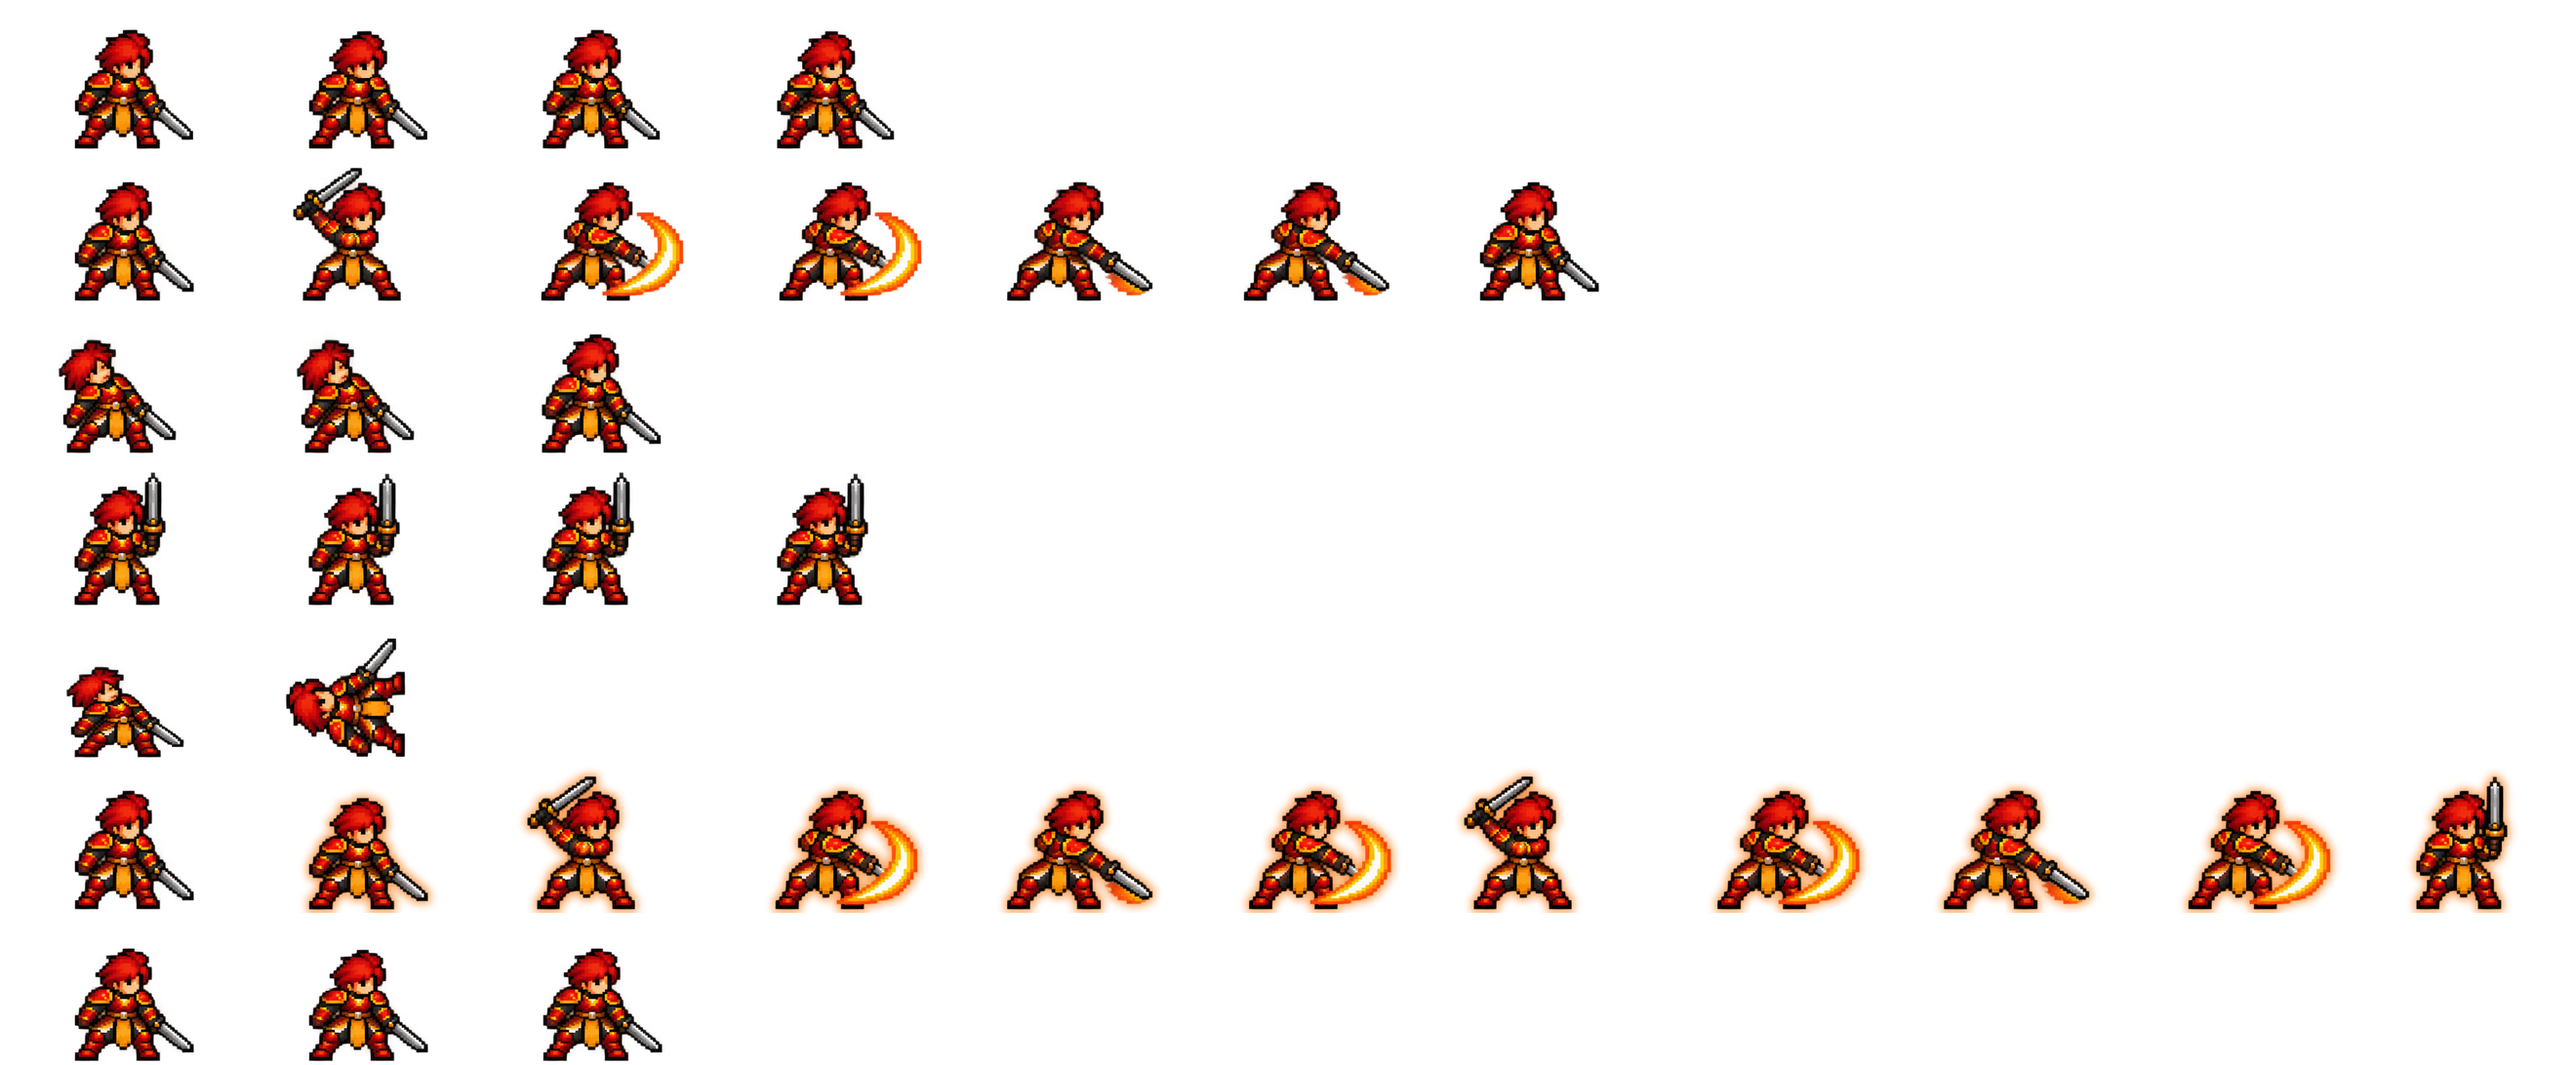
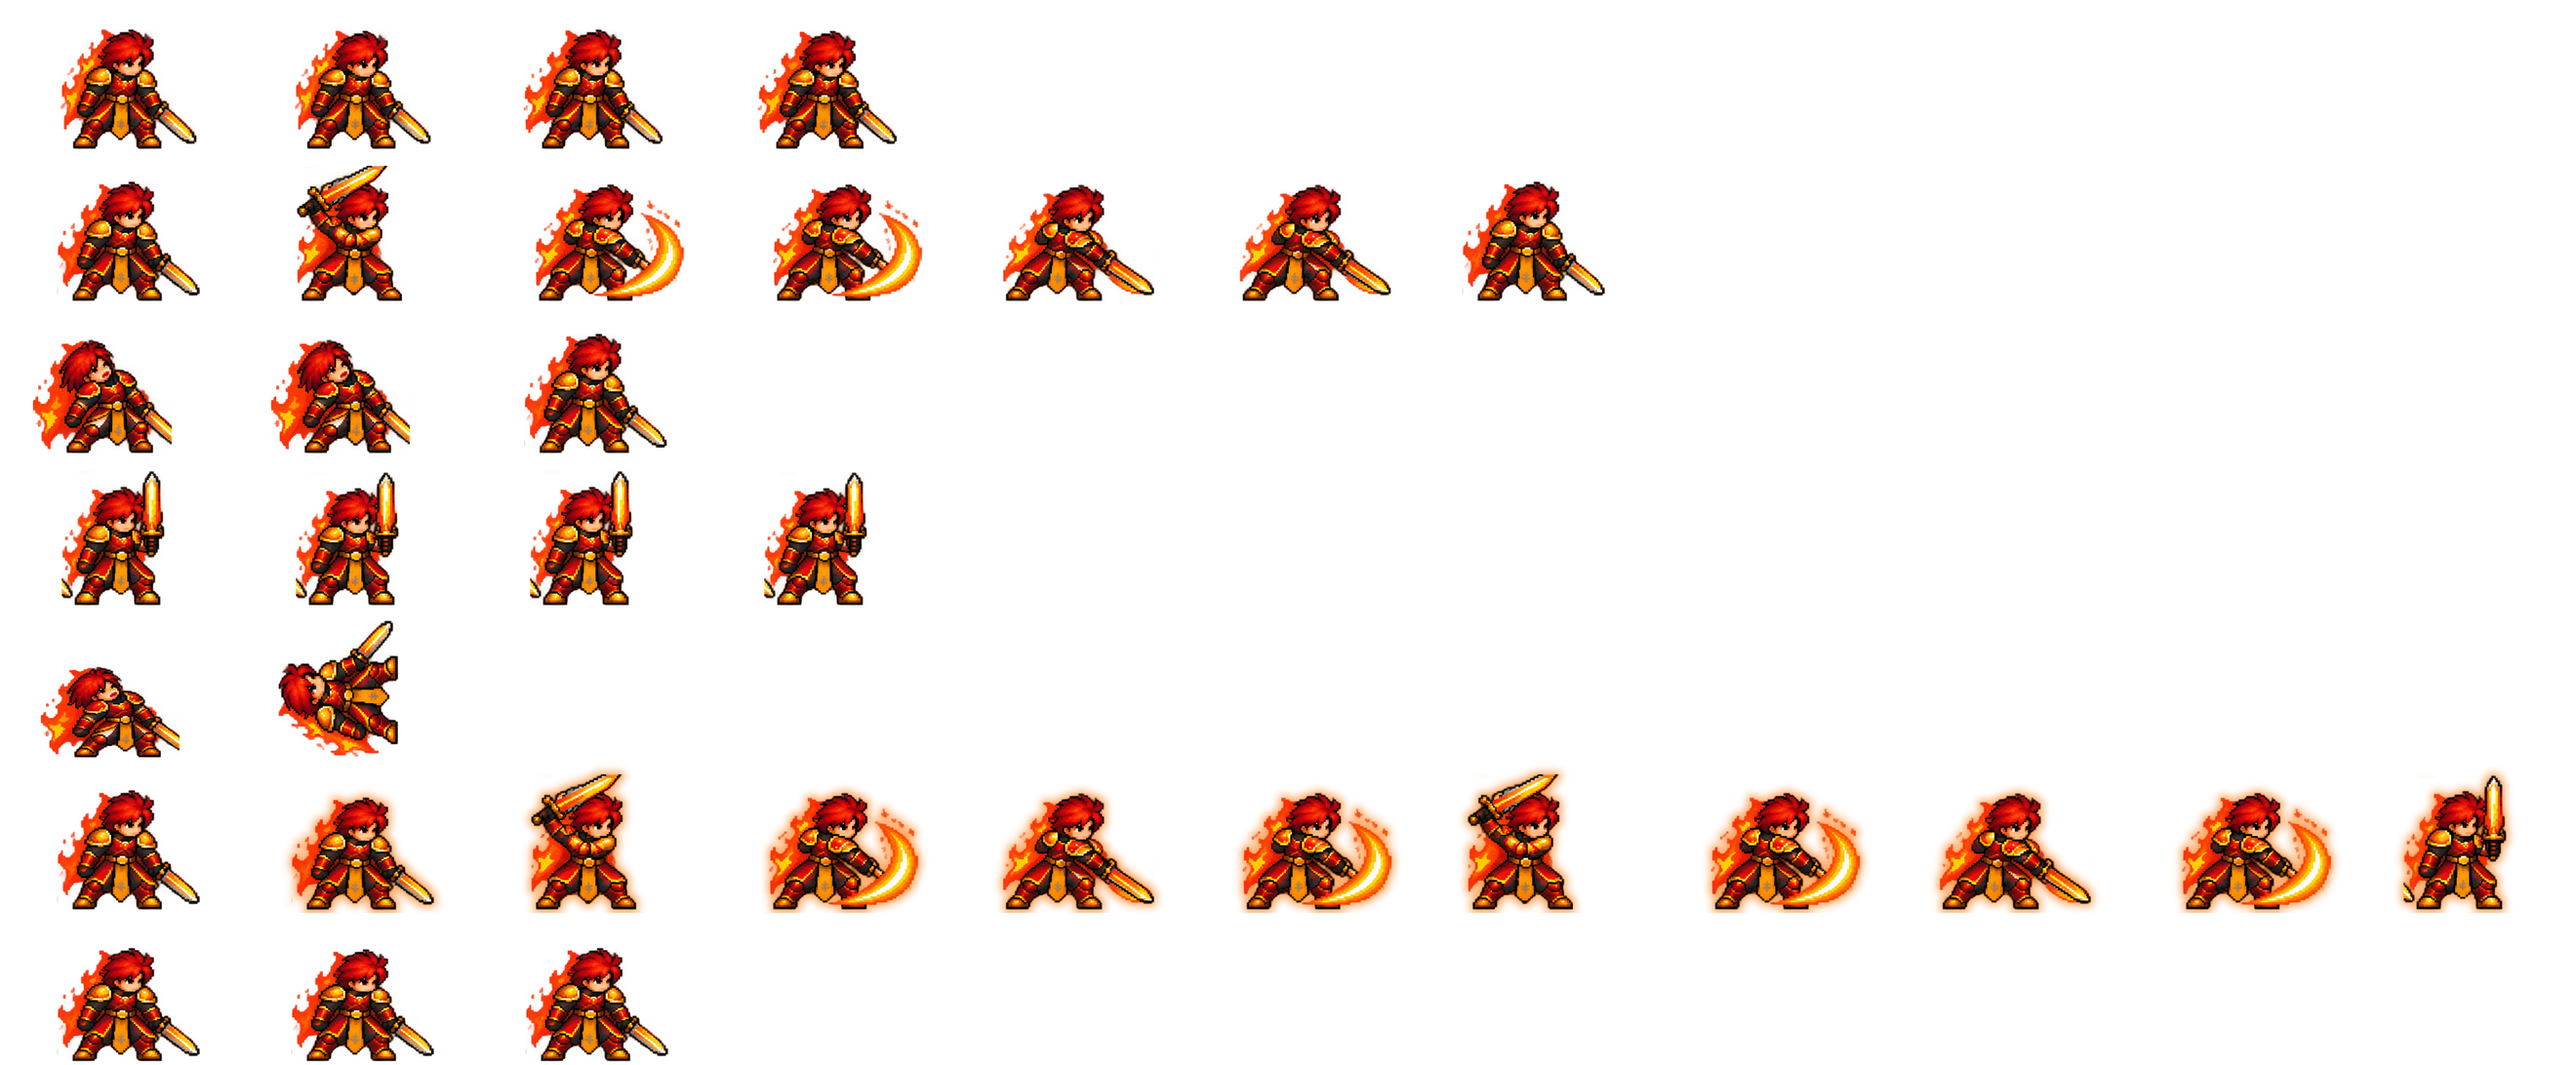
Kael: newest owner sheet (5* fire aura); cut on the emptiest grid lines so auras don't merge poses
Claude-Session: https://claude.ai/code/session_018FD9XXPN18zgpdgkPrG4jT

diff --git a/tools/import_kael.py b/tools/import_kael.py
@@ -32,14 +32,28 @@ def runs(mask, gap):
     return out + [(s, p)]
 
 
+def split(cov, guesses, span):
+    """Cut positions = the emptiest line near each expected gap (auras can touch neighbours)."""
+    return [min(range(g - span, g + span), key=lambda i: cov[i]) for g in guesses]
+
+
 def cut(src):
-    """-> rows of 8 frames, each pose placed with the midpoint between its feet at (CW/2, FEET)."""
+    """-> 4 rows x 8 poses, each placed with the midpoint between its feet at (CW/2, FEET)."""
     a = np.array(src)[..., 3] > 40
+    solid = np.array(src)[..., 3] > 200
+    H, W = a.shape
+    ys = [0] + split(a.sum(1), [H // 4, H // 2, 3 * H // 4], 25) + [H]
     rows = []
-    for y0, y1 in runs(a.any(1), 3):
+    for r in range(4):
+        band = a[ys[r]:ys[r + 1]]
+        xs = [0] + split(band.sum(0), [round(W * f) for f in (0.134, 0.262, 0.37, 0.51, 0.65, 0.777, 0.9)], 35) + [W]
         poses = []
-        for x0, x1 in runs(a[y0:y1 + 1].any(0), 2):
-            feet = runs(a[y1 - 4:y1 + 1, x0:x1 + 1].any(0), 3)
+        for c in range(8):
+            cell = band[:, xs[c]:xs[c + 1]]
+            yy, xx = np.nonzero(cell)
+            y0, y1, x0, x1 = ys[r] + yy.min(), ys[r] + yy.max(), xs[c] + xx.min(), xs[c] + xx.max()
+            low = solid[y1 - 6:y1 + 1, x0:x1 + 1].any(0)          # the boots (opaque) on the ground line
+            feet = runs(low, 3) if low.any() else [(0, x1 - x0)]
             ax = x0 + (feet[0][0] + feet[-1][1]) / 2
             fr = Image.new('RGBA', (CW, CH), (0, 0, 0, 0))
             fr.alpha_composite(src.crop((x0, y0, x1 + 1, y1 + 1)), (round(CW / 2 - (ax - x0)), FEET - (y1 - y0)))
